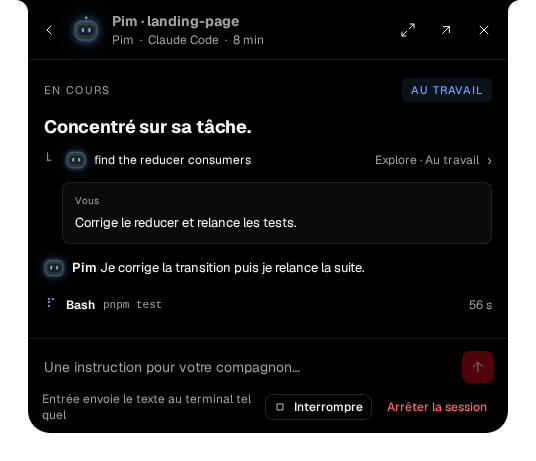
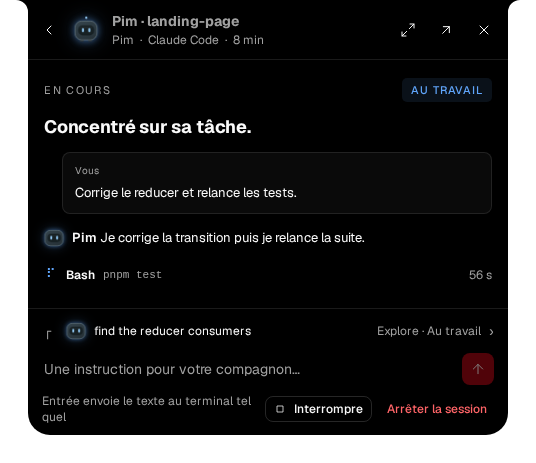
feat(overlay): the subagents sit over the reply field, in a tree that grows up from it
The current turn's helpers leave the top of the scrolling thread for the reply area, just above the field, so a
long thread never hides them. The tree is drawn the other way up: it opens on ┌ and branches off ├ down to the
field, the newest helper just above it; past four, the older ones fold into a "+N more" line. A read-only session
has no field and keeps them under the title, top-down as before.

A helper is now opened from the bottom of the panel: its view keeps at least the session's height, so the panel no
longer shrinks away from under the pointer that just clicked it (a mouse-opened panel folded on that leave).

diff --git a/apps/overlay/src/surface/SessionView.tsx b/apps/overlay/src/surface/SessionView.tsx
@@ -85,19 +85,33 @@ function QuestionCard({ pending, onReply, disabled, freeText, t }: { pending: Pe
 
 const HELPER_STATE: Record<Helper['state'], BotState> = { starting: 'starting', working: 'working', waiting_input: 'question', waiting_permission: 'approval', idle: 'idle', exited: 'done', error: 'error' };
 
-/** Spec 2026-10-13 §6: the current turn's helpers under the title, 20 px bots in a tree whose last branch ends in └; each
- *  row opens the helper's own thread. */
-function HelpersTree({ parent, helpers, t, theme, paused, frozen, reducedMotion, onOpen }: { parent: Session; helpers: HelperRow[]; t: Messages; theme: 'dark' | 'light'; paused: boolean; frozen?: boolean; reducedMotion?: boolean; onOpen?: (id: string) => void }) {
+/** Over the reply field, the tree keeps this many helpers, the latest; the older ones fold into a "+N more" line. */
+const HELPERS_SHOWN = 4;
+
+/** Spec 2026-10-13 §6: the current turn's helpers, 20 px bots in a tree; each row opens the helper's own thread. `up`
+ *  (over the reply field): the tree grows from the field, opens on ┌ and keeps the latest helpers, the newest just above
+ *  the field. `down` (under the title, a read-only session that has no field): its last branch ends in └. */
+function HelpersTree({ parent, helpers, direction, t, theme, paused, frozen, reducedMotion, onOpen }: { parent: Session; helpers: HelperRow[]; direction: 'up' | 'down'; t: Messages; theme: 'dark' | 'light'; paused: boolean; frozen?: boolean; reducedMotion?: boolean; onOpen?: (id: string) => void }) {
+  const up = direction === 'up';
+  const hidden = up ? Math.max(0, helpers.length - HELPERS_SHOWN) : 0;
+  const shown = helpers.slice(hidden);
+  const branch = { color: 'var(--muted-foreground)', width: 14, flexShrink: 0 } as const;
   return (
-    <ul data-helpers aria-label={t.session.helpers} style={{ listStyle: 'none', margin: '10px 0 0', padding: 0, display: 'flex', flexDirection: 'column', gap: 4 }}>
-      {helpers.map((h, i) => {
-        const st = HELPER_STATE[h.state]; const seed = `${parent.id}:${h.id}`; const last = i === helpers.length - 1;
+    <ul data-helpers data-direction={direction} aria-label={t.session.helpers} style={{ listStyle: 'none', margin: up ? 0 : '10px 0 0', padding: up ? '2px 0 4px 2px' : 0, display: 'flex', flexDirection: 'column', gap: 4 }}>
+      {hidden > 0 && (
+        <li data-helpers-more style={{ display: 'flex', alignItems: 'center', gap: 8, fontSize: 12, lineHeight: '16px', color: 'var(--muted-foreground)' }}>
+          <span aria-hidden="true" data-branch className="mono" style={branch}>┌</span><span>{t.session.helpersMore(hidden)}</span>
+        </li>
+      )}
+      {shown.map((h, i) => {
+        const st = HELPER_STATE[h.state]; const seed = `${parent.id}:${h.id}`; const last = i === shown.length - 1;
         const stateLabel = h.state === 'exited' ? t.thread.helperDone : t.botLabel[st];
+        const mark = up ? (i === 0 && !hidden ? '┌' : '├') : last ? '└' : '├';
         return (
           <li key={h.id} style={{ minWidth: 0 }}>
             <button type="button" data-helper data-helper-id={h.id} data-last={last ? 'true' : undefined} aria-label={`${h.task} · ${t.thread.helperOpen}`} onClick={() => onOpen?.(h.id)}
               style={{ display: 'flex', alignItems: 'center', gap: 8, width: '100%', minWidth: 0, padding: 0, background: 'none', border: 0, textAlign: 'left', font: 'inherit', fontSize: 12, lineHeight: '16px', color: 'var(--sidebar-foreground)', cursor: 'pointer', borderRadius: 4 }}>
-              <span aria-hidden="true" className="mono" style={{ width: 14, flexShrink: 0, color: 'var(--muted-foreground)' }}>{last ? '└' : '├'}</span>
+              <span aria-hidden="true" data-branch className="mono" style={branch}>{mark}</span>
               <Bot seed={seed} tool={parent.tool} state={st} pose={poseFor(seed, st)} size={20} theme={theme} paused={paused} frozen={frozen} reducedMotion={reducedMotion} />
               <span data-helper-task style={{ flexGrow: 1, minWidth: 0, whiteSpace: 'nowrap', overflow: 'hidden', textOverflow: 'ellipsis' }}>{h.task}</span>
               <span style={{ flexShrink: 0, color: 'var(--muted-foreground)', whiteSpace: 'nowrap' }}>{h.kind} · {stateLabel}</span>
@@ -216,7 +230,7 @@ export function SessionView(p: SessionViewProps) {
             {readOnly ? <Badge state="readonly" tone={badgeState} caps /> : <Badge state={badgeState} caps />}
           </div>
           <h2 style={{ margin: 0, fontSize: 18, lineHeight: '26px', fontWeight: 650, letterSpacing: '-0.01em', overflowWrap: 'anywhere' }}>{title}</h2>
-          {rows.length > 0 && <HelpersTree parent={s} helpers={rows} t={t} theme={p.theme ?? 'dark'} paused={!visible} frozen={p.frozen} reducedMotion={p.reducedMotion} onOpen={p.onOpenHelper} />}
+          {readOnly && rows.length > 0 && <HelpersTree parent={s} helpers={rows} direction="down" t={t} theme={p.theme ?? 'dark'} paused={!visible} frozen={p.frozen} reducedMotion={p.reducedMotion} onOpen={p.onOpenHelper} />}
           {p.thread !== undefined
             // The current answer is the card below when there is one, or the plan the request shows; otherwise (a request waits) it reads in the thread.
             ? <Thread session={s} items={p.thread} t={t} theme={p.theme ?? 'dark'} paused={!visible} frozen={p.frozen} reducedMotion={p.reducedMotion} now={p.now} onDocument={p.onDocument} hideCurrentReply={!!(reply && doc) || (!!pending?.body && pending.body === s.lastReply?.text)} />
@@ -274,6 +288,8 @@ export function SessionView(p: SessionViewProps) {
       {/* A session started without Ledge cannot be written to: the mockup drops the reply area, the note above says why. */}
       {!readOnly && (
         <div data-reply-area style={{ display: 'flex', flexDirection: 'column', gap: 6, padding: '10px 14px 10px', borderTop: rule }}>
+          {/* The helpers stay in view over the field, whatever the thread's scroll. */}
+          {rows.length > 0 && <HelpersTree parent={s} helpers={rows} direction="up" t={t} theme={p.theme ?? 'dark'} paused={!visible} frozen={p.frozen} reducedMotion={p.reducedMotion} onOpen={p.onOpenHelper} />}
           <div style={{ display: 'flex', alignItems: 'flex-end', gap: 8 }}>
             <textarea ref={replyField} data-reply rows={1} className="ledge-field" placeholder={t.session.replyPlaceholder(s.name)} aria-label={t.session.replyLabel(s.name)} aria-describedby="ledge-reply-hint" value={p.draft}
               onChange={e => p.onDraft(e.target.value)} onKeyDown={e => { if (e.key === 'Enter' && !e.shiftKey) { e.preventDefault(); sendDraft(); } }}

diff --git a/apps/overlay/test/session.test.tsx b/apps/overlay/test/session.test.tsx
@@ -26,9 +26,12 @@ describe('<SessionView>', () => {
     expect(row).toHaveTextContent('Explore · Working');
     fireEvent.click(row);
     expect(onOpenHelper).toHaveBeenCalledWith('h1');
-    // The thread comes before the reply card and the ask fold.
+    // The helpers sit over the reply field, out of the scrolling thread, so a long thread never hides them.
     const helpersEl = container.querySelector('[data-helpers]')!; const threadEl = container.querySelector('[data-thread]')!;
-    expect(helpersEl.compareDocumentPosition(threadEl) & Node.DOCUMENT_POSITION_FOLLOWING).toBeTruthy();
+    expect(threadEl.compareDocumentPosition(helpersEl) & Node.DOCUMENT_POSITION_FOLLOWING).toBeTruthy();
+    expect(container.querySelector('[data-scroll]')).not.toContainElement(helpersEl as HTMLElement);
+    expect(container.querySelector('[data-reply-area]')).toContainElement(helpersEl as HTMLElement);
+    expect(helpersEl.compareDocumentPosition(container.querySelector('[data-reply]')!) & Node.DOCUMENT_POSITION_FOLLOWING).toBeTruthy();
     // h1 ends: its row leaves, h2 stays; the live tool line is still the turn's last line, under what the agent said.
     rerender(<SessionView {...base} session={fakeSession('a', { state: 'working', helpers: [] })} thread={thread.map(i => (i.id === 'h1' ? { ...i, state: 'exited' as const } : i))} onOpenHelper={onOpenHelper} />);
     expect([...container.querySelectorAll('[data-helper]')].map(e => e.getAttribute('data-helper-id'))).toEqual(['h2']);
@@ -73,7 +76,7 @@ describe('<SessionView>', () => {
     expect(container.textContent).not.toMatch(/\d+ (done|question)/);
     expect(container.querySelector('[data-thread][data-empty]')).toBeInTheDocument();
   });
-  it('lists the live helpers under the title and keeps an idle parent "in progress" while one works', () => {
+  it('lists the live helpers over the reply field and keeps an idle parent "in progress" while one works', () => {
     const helpers = [
       { id: 'h0', kind: 'Explore', task: 'find reducer consumers', state: 'exited' as const },
       { id: 'h1', kind: 'general-purpose', task: 'review task 1', state: 'working' as const },
@@ -93,10 +96,30 @@ describe('<SessionView>', () => {
     expect(rows[1]!.querySelector('[data-helper-task]')).toBeEmptyDOMElement();
     expect(rows[1]).toHaveTextContent('Explore · Needs your approval');
     expect(rows[1]).toHaveAttribute('data-last', 'true');
+    // The tree grows up from the field: it opens on ┌, every other row branches off ├ towards the field below.
+    expect([...tree.querySelectorAll('[data-branch]')].map(e => e.textContent)).toEqual(['┌', '├']);
     expect(tree.querySelectorAll('svg')).toHaveLength(2);
     rerender(<SessionView {...base} session={fakeSession('a', { state: 'idle', helpers: helpers.map(h => ({ ...h, state: 'exited' as const })) })} />);
     expect(screen.queryByRole('list', { name: 'Subagents' })).not.toBeInTheDocument();
     expect(screen.getByRole('heading', { level: 2 })).toHaveTextContent('Waiting for your instructions.');
+  });
+  it('keeps the four latest helpers over the field and folds the older ones into a "+N more" line', () => {
+    const helpers = Array.from({ length: 6 }, (_, i) => ({ id: `h${i}`, kind: 'Explore', task: `task ${i}`, state: 'working' as const }));
+    render(<SessionView {...base} session={fakeSession('a', { state: 'working', helpers })} />);
+    const tree = screen.getByRole('list', { name: 'Subagents' });
+    expect([...tree.querySelectorAll('[data-helper]')].map(e => e.getAttribute('data-helper-id'))).toEqual(['h2', 'h3', 'h4', 'h5']);
+    expect(tree.querySelector('[data-helpers-more]')).toHaveTextContent('+2 more');
+    expect([...tree.querySelectorAll('[data-branch]')].map(e => e.textContent)).toEqual(['┌', '├', '├', '├', '├']);
+  });
+  it('a read-only session has no reply field: its helpers stay under the title, top-down', () => {
+    const helpers = [
+      { id: 'h1', kind: 'Explore', task: 'one', state: 'working' as const },
+      { id: 'h2', kind: 'Explore', task: 'two', state: 'working' as const }
+    ];
+    const { container } = render(<SessionView {...base} session={fakeSession('a', { state: 'working', source: 'hook_only', helpers })} />);
+    const tree = screen.getByRole('list', { name: 'Subagents' });
+    expect(container.querySelector('[data-scroll]')).toContainElement(tree);
+    expect([...tree.querySelectorAll('[data-branch]')].map(e => e.textContent)).toEqual(['├', '└']);
   });
   it('shows a permission card and sends the decision', () => {
     const onDecide = vi.fn();

diff --git a/apps/overlay/e2e/thread.spec.ts b/apps/overlay/e2e/thread.spec.ts
@@ -1,5 +1,6 @@
-import { test, expect, expectMode, received, ready } from './fixtures';
+import { test, expect, expectMode, received, ready, layer, surface } from './fixtures';
 import { fakeDaemon, session } from './daemon';
+import { openList, restInside } from './scenarios';
 
 const at = (s: number) => new Date(Date.now() - 60_000 + s * 1000).toISOString();
 // Enough earlier messages for the session view to overflow, so there is a position to come back to.
@@ -43,4 +44,24 @@ test('the session shows its thread, the live tool line marks its outcome and goe
   await expectMode(page, 'session');
   await expect.poll(() => scroll.evaluate(el => el.scrollTop)).toBe(kept);
   await expect(page.locator('[data-layer="session"] [data-helper]')).toBeFocused();
+});
+
+test('a helper row clicked with the mouse over the reply field opens its view, which keeps the panel open under the pointer', async ({ page }) => {
+  const d = await fakeDaemon(page, [session('a', { state: 'working' })]);
+  await ready(page, 1);
+  await openList(page);
+  await layer(page, 'list').getByRole('button', { name: /, open$/ }).first().click();
+  await expectMode(page, 'session');
+  await restInside(page);
+  await received(d.received, 'session.thread', m => m.id === 'a');
+  // A short helper thread: its own view is shorter than the session, whose helper row sits low, over the reply field.
+  d.emit({ type: 'session.thread', id: 'a', items: thread.slice(earlier.length, earlier.length + 3) });
+  const row = layer(page, 'session').locator('[data-helper]');
+  const before = (await surface(page).boundingBox())!.height;
+  await row.click();
+  await expectMode(page, 'helper');
+  // Past the leave timer (500 ms) and the resize: the pointer is still over the panel, which has not shrunk under it.
+  await page.waitForTimeout(1200);
+  await expectMode(page, 'helper');
+  expect((await surface(page).boundingBox())!.height).toBeGreaterThanOrEqual(before - 1);
 });

diff --git a/apps/overlay/src/surface/Surface.tsx b/apps/overlay/src/surface/Surface.tsx
@@ -351,11 +351,13 @@ export function Surface({ screenH, screenW = window.innerWidth, theme, client, d
   const replyH = useMeasuredHeight(sessionReplyRef, st.mode === 'session', ps);
   const helperRef = useRef<HTMLDivElement>(null);
   const helperContentH = useMeasuredHeight(helperRef, st.mode === 'helper', ps);
-  const helperH = helperContentH ? helperContentH + SURFACE_CHROME_Y : 480;
   // The bottom area holds the terminal strip and, unless read-only, the reply field. In reading mode the terminal sits
   // alongside the thread: the view is at least tall enough for its lines.
   const fitH = !selected ? 480 : contentH ? SESSION_HEADER_H + contentH + replyH + SURFACE_CHROME_Y : measureSessionH(selected, st.reading);
   const sessionH = st.reading && shownPreview.length ? Math.max(fitH, SESSION_HEADER_H + READING_TERMINAL_H + SURFACE_CHROME_Y) : fitH;
+  // A helper opens from its row over the reply field, at the bottom of the session: its view keeps at least the
+  // session's height, so the panel never shrinks away from under the pointer that just clicked (which would fold it).
+  const helperH = Math.max(helperContentH ? helperContentH + SURFACE_CHROME_Y : 480, sessionH);
   // Settings and help size themselves to their content too (their header is the 56 px DetailHeader).
   const settingsRef = useRef<HTMLDivElement>(null); const helpRef = useRef<HTMLDivElement>(null);
   const settingsH = useMeasuredHeight(settingsRef, st.mode === 'settings', ps);

diff --git a/apps/overlay/src/i18n/messages.ts b/apps/overlay/src/i18n/messages.ts
@@ -93,7 +93,7 @@ const fr = {
       starting: 'La session se prépare.', working: 'Concentré sur sa tâche.', idle: 'En attente de vos instructions.',
       error: 'La session a rencontré un problème.', exited: 'Cette session est terminée.'
     },
-    helpers: 'Sous-agents',
+    helpers: 'Sous-agents', helpersMore: (n: number) => `+${n} ${plural(n, 'autre', 'autres')}`,
     readonlyLead: (name: string) => `${name} a été lancé sans le lanceur Ledge.`,
     readonlyNote: 'Son état reste visible. Pour répondre à cette session, retrouvez son terminal d’origine.',
     readonlyNext: 'Pour une prochaine session interactive :',
@@ -331,7 +331,7 @@ const en: Messages = {
       starting: 'The session is starting.', working: 'Focused on its task.', idle: 'Waiting for your instructions.',
       error: 'The session ran into a problem.', exited: 'This session has ended.'
     },
-    helpers: 'Subagents',
+    helpers: 'Subagents', helpersMore: (n: number) => `+${n} more`,
     readonlyLead: (name: string) => `${name} was started without the Ledge launcher.`,
     readonlyNote: 'Its state stays visible. To answer this session, go back to its own terminal.',
     readonlyNext: 'For your next interactive session:',

diff --git a/docs/tour.md b/docs/tour.md
@@ -88,9 +88,9 @@ A working session shows the terminal preview: the last thirty lines of the conve
 
 <img src="screens/session-preview-dark.png" alt="Session: Pim at work, the terminal preview shows the agent running the tests" width="448">
 
-When the agent hands part of the work to subagents, they appear under the title as small bots with their task and their state. A session whose main thread is only waiting for its subagents stays "au travail" in the list, the island and the bubble, instead of reading as available.
+When the agent hands part of the work to subagents, they appear just above the reply field as small bots with their task and their state, in a tree that grows up from the field (the newest just above it, past four the older ones fold into a "+N" line). It stays in view however far the thread scrolls; a read-only session, which has no field, keeps them under the title. A session whose main thread is only waiting for its subagents stays "au travail" in the list, the island and the bubble, instead of reading as available.
 
-<img src="screens/session-helpers-dark.png" alt="Session: Pim in progress, two subagents under the title with their task, general-purpose and Explore, both at work" width="448">
+<img src="screens/session-helpers-dark.png" alt="Session: Pim in progress, two subagents above the reply field with their task, general-purpose and Explore, both at work" width="448">
 
 A session started with plain `claude`, without the launcher, is still visible through its hooks, in read-only mode.
 
